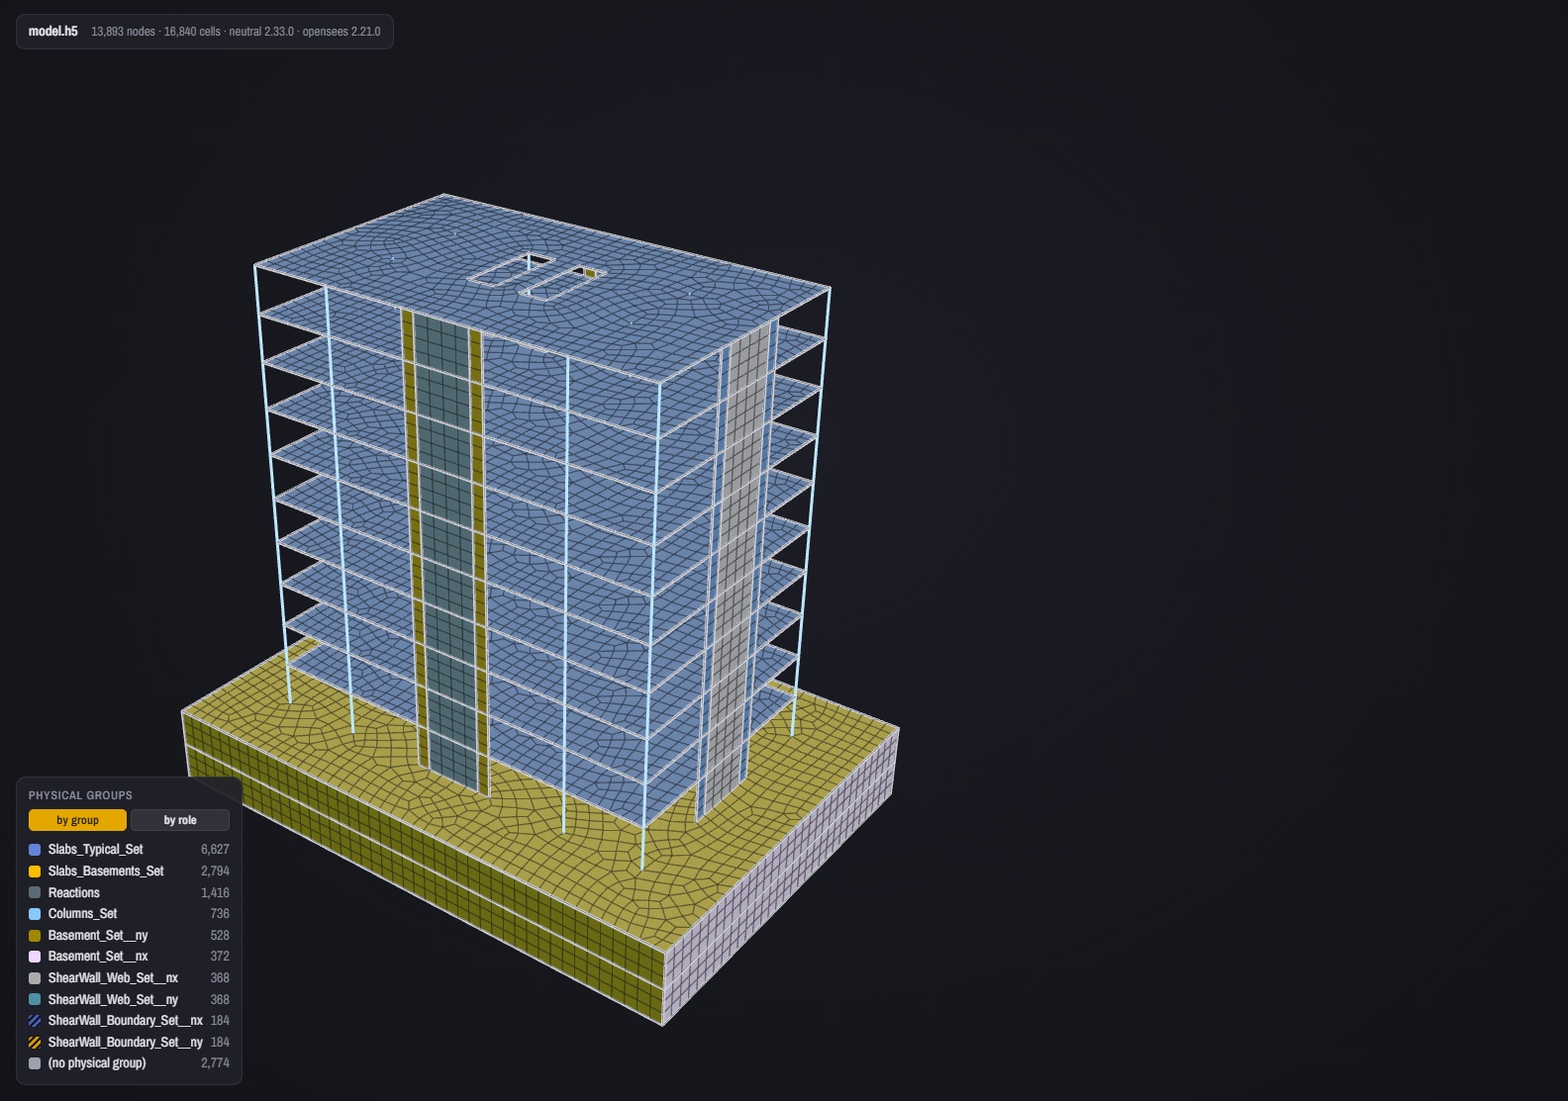
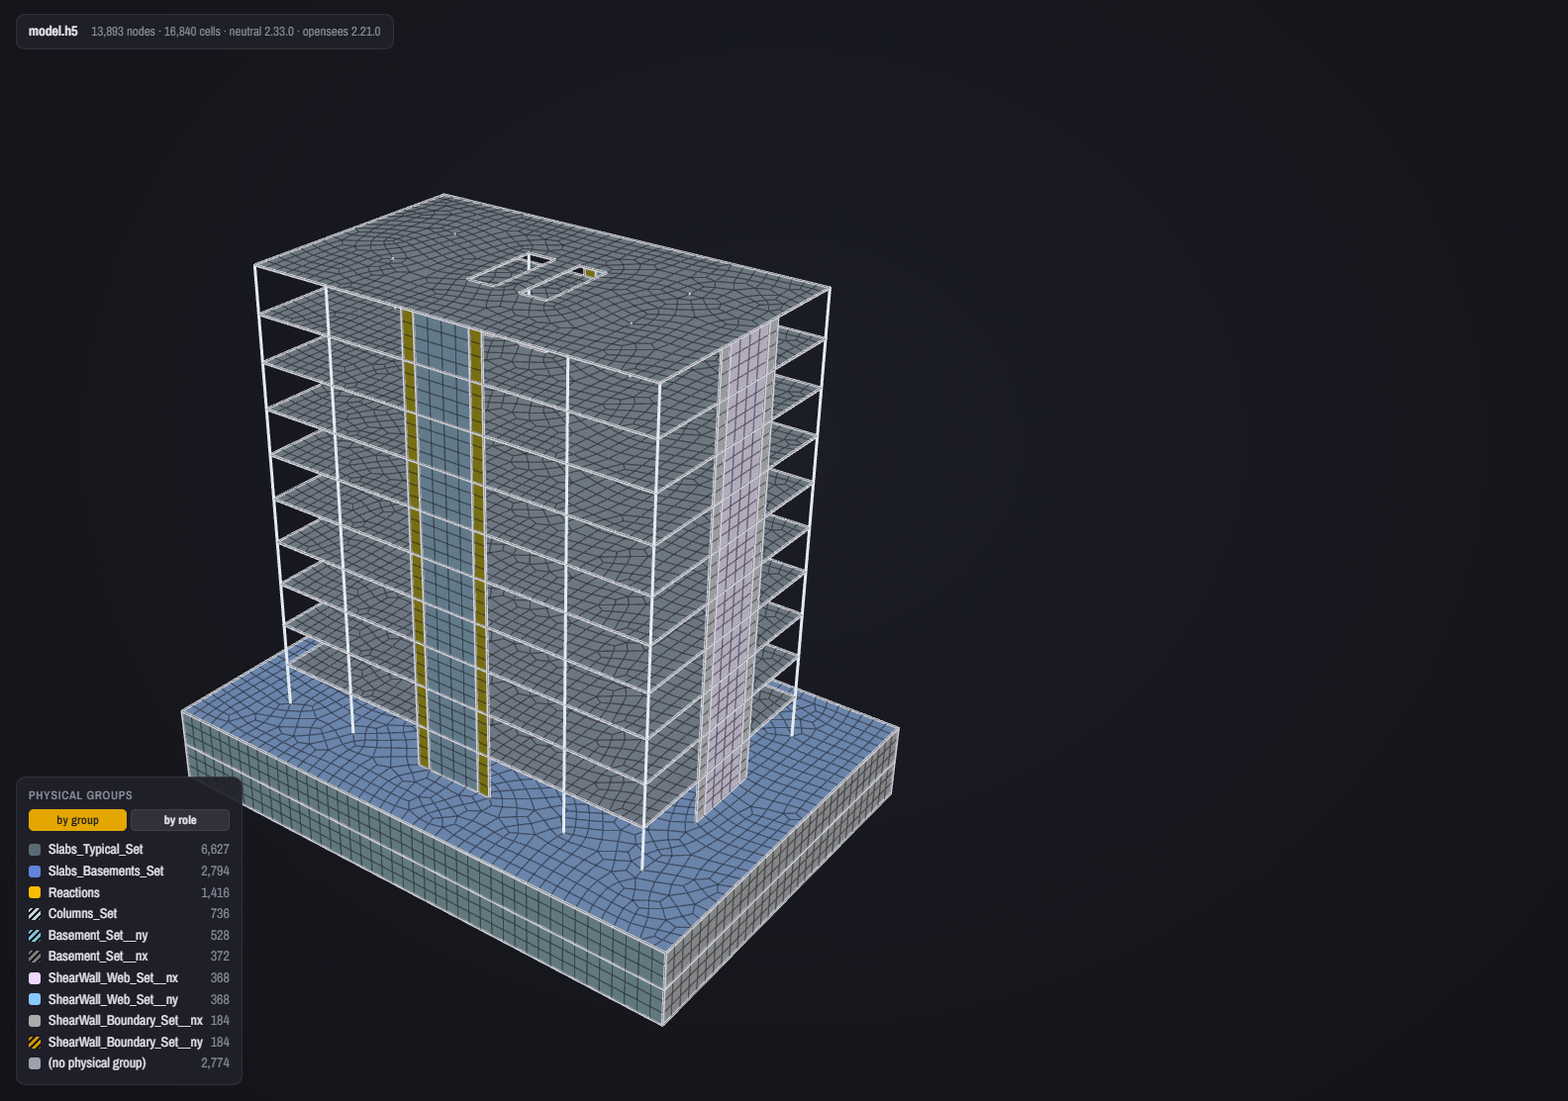
feat(apeGmshViewer): colour the group-adjacency graph so neighbours in the view contrast (#1330 finding 5)
Two groups are adjacent when an element of each shares a node; the pairs
are computed at load (state/adjacency.ts) and kept in MeshInfo.adjacency.
assignSlots colours the graph greedily, largest degree first, each group
taking the slot that contrasts with every coloured neighbour (>= 0.05 OKLab
under protanopia and deuteranopia, with a lightness step or a hue gap, and
never the office orange beside the dark gold), unused slots first, then the
largest smallest distance. Deterministic. Tests on the fixture's adjacency
(arch touches both columns), a path, a 13-group star (second-ring cue) and
K6; San Ramon's 22 adjacent pairs all contrast.

Changed region(s): [[0.0928, 0.1833, 0.5878, 0.947], [0.0, 0.7637, 0.0309, 0.9164]]

diff --git a/apeGmshViewer/src/state/palette.ts b/apeGmshViewer/src/state/palette.ts
@@ -1,17 +1,21 @@
-// Group colours (R2 on #1283, revised on #1308 round 3): the office palette
-// (theme/tokens.ts, from apeGraphStyle v0.1.0), in its order, adapted to
-// the dark theme.
+// Group colours (R2 on #1283, revised on #1308 round 3 and by the
+// maintainer's ruling on #1330): the office palette (theme/tokens.ts, from
+// apeGraphStyle v0.1.0) adapted to the dark theme, with the slots assigned
+// so that groups that are neighbours in the view contrast.
 //
-// Legend entry i takes office colour i % 8. The first eight alternate in
-// lightness (every legend neighbour steps by at least 0.10 in OKLCH L) and
-// never rely on a red/green difference alone (test/tokens.test.ts simulates
-// protanopia and checks every pair). Past eight groups the hue repeats one
-// lightness step away and the legend chip carries a stripe: the second cue,
-// as apeGraphStyle's `redundant_cycle` adds a line style. Past sixteen the
-// cycle repeats and the chip takes a second stripe; the maintainer's models
-// have eleven groups.
+// The sixteen slots are the eight office colours (ring 0) and the same
+// hues one lightness step away (ring 1, a striped legend chip as the second
+// cue). `assignSlots` colours the group-adjacency graph greedily: the group
+// with most neighbours first (ties by legend order), each taking the slot
+// that maximises the smallest colour-vision-deficiency-simulated OKLab
+// distance (protanopia and deuteranopia) to its already-coloured
+// neighbours, never a slot in the same hue family as a neighbour when
+// another is free, and never office orange beside dark gold (12 degrees
+// apart, one hue to a protanope). A group with no coloured neighbour takes
+// the lowest free slot. The assignment is a pure function of the
+// adjacency, so the same file gives the same colours.
 
-import { DARK, DARK_MAIN, DARK_MAIN_RING2, hexToRgb, type RGB } from "../theme/tokens.ts";
+import { DARK, DARK_MAIN, DARK_MAIN_RING2, hexToRgb, oklabDistance, simulateCvd, srgbToOklch, type RGB } from "../theme/tokens.ts";
 
 /** Elements in no physical group, and OpenSees-only elements. */
 export const NO_GROUP: RGB = hexToRgb(DARK.noGroup);
@@ -19,18 +23,80 @@ export const OPS_ONLY: RGB = hexToRgb(DARK.opsOnly);
 
 /** The rings of the group palette: the office colours, then the same hues one lightness step away. */
 export const RINGS: readonly (readonly RGB[])[] = [DARK_MAIN.map(hexToRgb), DARK_MAIN_RING2.map(hexToRgb)];
-
 /** Office colours per ring. */
 export const RING_SIZE = DARK_MAIN.length;
+/** Slots: ring 0 then ring 1. */
+export const SLOTS: readonly RGB[] = RINGS.flat();
+/** Office indices that may never colour adjacent groups, the office orange (1) beside the dark gold (4). */
+export const NEVER_ADJACENT: readonly [number, number][] = [[1, 4]];
+/** What two adjacent groups must keep: this much CVD-simulated OKLab distance, and a lightness step or a hue gap. */
+export const ADJACENT_MIN_DISTANCE = 0.05;
+export const ADJACENT_MIN_DL = 0.1;
 
-/** The colour of legend entry `i`, and its ring (0: the office colour; 1+: a repeat, with a stripe cue). */
-export function paletteEntry(i: number): { color: RGB; ring: number } {
-  if (!Number.isInteger(i) || i < 0) throw new RangeError(`paletteEntry: ${i}`);
-  const ring = Math.floor(i / RING_SIZE);
-  return { color: RINGS[Math.min(ring, RINGS.length - 1)]![i % RING_SIZE]!, ring };
+/** The colour and ring of slot `s`. */
+export function slotColour(s: number): { color: RGB; ring: number } {
+  if (!Number.isInteger(s) || s < 0 || s >= SLOTS.length) throw new RangeError(`slotColour: ${s}`);
+  return { color: SLOTS[s]!, ring: Math.floor(s / RING_SIZE) };
 }
 
-/** The colours of `n` legend entries, in legend order. */
-export function paletteFor(n: number): RGB[] {
-  return Array.from({ length: n }, (_, i) => paletteEntry(i).color);
+/** Office hue family of a slot. */
+export const hueOf = (s: number): number => s % RING_SIZE;
+
+/** The smaller of the protanopia- and deuteranopia-simulated OKLab distances between two slots. */
+export function cvdDistance(a: number, b: number): number {
+  return Math.min(
+    ...(["protanopia", "deuteranopia"] as const).map((k) => oklabDistance(simulateCvd(k, SLOTS[a]!), simulateCvd(k, SLOTS[b]!))),
+  );
+}
+
+const DIST: number[][] = SLOTS.map((_, a) => SLOTS.map((__, b) => cvdDistance(a, b)));
+const LIGHT: number[] = SLOTS.map((c) => srgbToOklch(c).L);
+
+const forbidden = (a: number, b: number): boolean =>
+  NEVER_ADJACENT.some(([x, y]) => (hueOf(a) === x && hueOf(b) === y) || (hueOf(a) === y && hueOf(b) === x));
+
+/** Whether two slots may colour adjacent groups: far enough as a protanope and a deuteranope see them, by lightness or by a hue gap, and not the office orange beside the dark gold. */
+export function slotsContrast(a: number, b: number): boolean {
+  if (forbidden(a, b)) return false;
+  return DIST[a]![b]! >= ADJACENT_MIN_DISTANCE && (Math.abs(LIGHT[a]! - LIGHT[b]!) >= ADJACENT_MIN_DL - 0.012 || hueOf(a) !== hueOf(b));
+}
+
+/**
+ * Assign a slot to each of `n` groups so that adjacent groups contrast.
+ * `adjacency` lists pairs of group indices. Returns the slot of each group.
+ *
+ * Greedy, largest degree first (ties by index): among the slots that
+ * contrast with every already-coloured neighbour, an unused slot first (so
+ * the legend stays varied), then the largest smallest CVD distance to those
+ * neighbours, then the lowest slot. When no slot contrasts with them all
+ * (more neighbours than the palette can separate), the one with the largest
+ * smallest distance is taken anyway; the stripe cue past the office eight
+ * still tells its ring.
+ */
+export function assignSlots(n: number, adjacency: readonly (readonly [number, number])[]): number[] {
+  const neighbours: Set<number>[] = Array.from({ length: n }, () => new Set());
+  for (const [a, b] of adjacency) {
+    if (a === b || a < 0 || b < 0 || a >= n || b >= n) throw new RangeError(`assignSlots: pair ${a},${b} of ${n} groups`);
+    neighbours[a]!.add(b);
+    neighbours[b]!.add(a);
+  }
+  const order = [...Array(n).keys()].sort((x, y) => neighbours[y]!.size - neighbours[x]!.size || x - y);
+  const slot = new Array<number>(n).fill(-1);
+  const used = new Set<number>();
+  for (const g of order) {
+    const coloured = [...neighbours[g]!].filter((h) => slot[h]! >= 0).map((h) => slot[h]!);
+    const minDist = (s: number) => (coloured.length ? Math.min(...coloured.map((c) => DIST[s]![c]!)) : 1);
+    const key = (s: number): [number, number, number, number] => [
+      coloured.every((c) => slotsContrast(s, c)) ? 1 : 0,
+      used.has(s) ? 0 : 1,
+      minDist(s),
+      -s,
+    ];
+    const better = (p: number[], q: number[]) => p.findIndex((v, i) => v !== q[i]) >= 0 && p[p.findIndex((v, i) => v !== q[i])]! > q[p.findIndex((v, i) => v !== q[i])]!;
+    let best = 0;
+    for (let s = 1; s < SLOTS.length; s++) if (better(key(s), key(best))) best = s;
+    slot[g] = best;
+    used.add(best);
+  }
+  return slot;
 }

diff --git a/apeGmshViewer/test/tokens.test.ts b/apeGmshViewer/test/tokens.test.ts
@@ -10,7 +10,9 @@ import { readdirSync, readFileSync, statSync } from "node:fs";
 import { join } from "node:path";
 import { test } from "node:test";
 import { fileURLToPath } from "node:url";
-import { NO_GROUP, OPS_ONLY, paletteEntry, paletteFor, RING_SIZE } from "../src/state/palette.ts";
+import { groupAdjacency } from "../src/state/adjacency.ts";
+import { assignSlots, cvdDistance, hueOf, NEVER_ADJACENT, NO_GROUP, OPS_ONLY, RING_SIZE, slotColour, SLOTS, slotsContrast } from "../src/state/palette.ts";
+import { colourGroups } from "../src/mesh/build.ts";
 import { roleColouring, UNASSIGNED_ROW } from "../src/state/roles.ts";
 import {
   contrastRatio, DARK, DARK_L1, DARK_L2, DARK_MAIN, DARK_MAIN_RING2, DARK_ROLE, FONT_FILES, hexToRgb, oklabDistance, OFFICE, OFFICE_MAIN, protanopia, relight, rgbToHex,
@@ -136,17 +138,68 @@ test("the roles take the office colours; no two roles are told apart by red/gree
 
 // ---- the palette the legend uses ---------------------------------------------
 
-test("legend entries cycle the office order; the ninth repeats the first hue one step away with a stripe cue", () => {
-  const p = paletteFor(11);
-  assert.equal(p.length, 11);
-  assert.deepEqual(p[0], hexToRgb(DARK_MAIN[0]!));
-  assert.deepEqual(p[8], hexToRgb(DARK_MAIN_RING2[0]!));
-  assert.equal(paletteEntry(0).ring, 0);
-  assert.equal(paletteEntry(8).ring, 1);
-  assert.equal(paletteEntry(16).ring, 2);
-  assert.throws(() => paletteEntry(-1), RangeError);
+test("the sixteen slots are the two rings in office order; the second ring carries the stripe cue", () => {
+  assert.equal(SLOTS.length, 2 * RING_SIZE);
+  assert.deepEqual(slotColour(0).color, hexToRgb(DARK_MAIN[0]!));
+  assert.deepEqual(slotColour(8), { color: hexToRgb(DARK_MAIN_RING2[0]!), ring: 1 });
+  assert.equal(hueOf(13), 5);
+  assert.throws(() => slotColour(16), RangeError);
   assert.deepEqual(NO_GROUP, hexToRgb(DARK.noGroup));
   assert.deepEqual(OPS_ONLY, hexToRgb(DARK.opsOnly));
+});
+
+/** The maintainer's rule for two adjacent groups, spelled out here beside the palette's own `slotsContrast`. */
+function contrasts(a: number, b: number): boolean {
+  const dL = Math.abs(srgbToOklch(SLOTS[a]!).L - srgbToOklch(SLOTS[b]!).L);
+  const hueGap = hueOf(a) !== hueOf(b) && !NEVER_ADJACENT.some(([x, y]) => (hueOf(a) === x && hueOf(b) === y) || (hueOf(a) === y && hueOf(b) === x));
+  const ok = cvdDistance(a, b) >= SAFE && (dL >= STEP - 0.012 || hueGap);
+  assert.equal(slotsContrast(a, b), ok, `slotsContrast(${a}, ${b}) agrees with the spelled-out rule`);
+  return ok;
+}
+
+test("adjacent groups contrast: the fixture's arch touches both columns, which do not touch each other", async () => {
+  const model = await openModel(fileURLToPath(new URL("../fixtures/shoebuckle.h5", import.meta.url)));
+  const { byElement, order } = colourGroups(model);
+  const adj = groupAdjacency(model, byElement, order.length);
+  const name = (i: number) => order[i]!;
+  assert.deepEqual(adj.map(([a, b]) => [name(a), name(b)].sort()), [["Arch", "LeftColumn"], ["Arch", "RightColumn"]]);
+  const s = reduce(initialState, { type: "fileLoaded", artifact: "model", load: loadModel(model, new BlobStore()) });
+  const legend = s.mesh!.legend;
+  assert.deepEqual(s.mesh!.adjacency, [[0, 1], [0, 2]], "legend rows: Arch (0) touches LeftColumn (1) and RightColumn (2)");
+  for (const [a, b] of s.mesh!.adjacency) assert.ok(contrasts(legend[a]!.slot!, legend[b]!.slot!), `${legend[a]!.name} vs ${legend[b]!.name}`);
+  // The legend shows the assigned slots' colours.
+  for (const e of legend) if (e.slot !== null) assert.deepEqual(e.color, slotColour(e.slot).color);
+  // Deterministic: the same file gives the same colours.
+  const again = loadModel(model, new BlobStore()).mesh.legend.map((e) => e.slot);
+  assert.deepEqual(legend.map((e) => e.slot), again);
+});
+
+test("assignSlots: a chain and a dense graph keep every adjacent pair apart, with the office rule and the stripe cue past eight", () => {
+  // A path of 6 groups: each neighbour pair contrasts; the assignment is a pure function of the adjacency.
+  const path: [number, number][] = [[0, 1], [1, 2], [2, 3], [3, 4], [4, 5]];
+  const slots = assignSlots(6, path);
+  for (const [a, b] of path) assert.ok(contrasts(slots[a]!, slots[b]!), `${a}-${b}: slots ${slots[a]} ${slots[b]}`);
+  assert.deepEqual(assignSlots(6, path), slots, "deterministic");
+  assert.deepEqual(assignSlots(6, [...path].reverse()), slots, "and independent of the pair order");
+  // A hub with 12 neighbours: more than the eight office colours, so the second ring (stripe cue) is used,
+  // every hub-neighbour pair contrasts, and orange never sits beside dark gold.
+  const n = 13;
+  const star: [number, number][] = Array.from({ length: n - 1 }, (_, i) => [0, i + 1]);
+  const s2 = assignSlots(n, star);
+  assert.equal(new Set(s2).size, n, "all distinct");
+  assert.ok(s2.some((x) => slotColour(x).ring === 1), "a second-ring slot is in use");
+  for (const [a, b] of star) assert.ok(contrasts(s2[a]!, s2[b]!), `${a}-${b}`);
+  // Orange and dark gold: never adjacent, in a complete graph of 6 either.
+  const k6: [number, number][] = [];
+  for (let i = 0; i < 6; i++) for (let j = i + 1; j < 6; j++) k6.push([i, j]);
+  const s3 = assignSlots(6, k6);
+  for (const [a, b] of k6) {
+    assert.ok(!NEVER_ADJACENT.some(([x, y]) => (hueOf(s3[a]!) === x && hueOf(s3[b]!) === y) || (hueOf(s3[a]!) === y && hueOf(s3[b]!) === x)), `${a}-${b}`);
+    assert.ok(cvdDistance(s3[a]!, s3[b]!) >= SAFE);
+  }
+  // Groups with no neighbour take the lowest free slots, in order.
+  assert.deepEqual(assignSlots(3, []), [0, 1, 2]);
+  assert.throws(() => assignSlots(2, [[0, 2]]), RangeError);
 });
 
 // ---- colour by role: from the file only ---------------------------------------

diff --git a/apeGmshViewer/src/state/load.ts b/apeGmshViewer/src/state/load.ts
@@ -9,7 +9,8 @@ import type { Group, ModelFile, OpsFamily, Param } from "../model/types.ts";
 import { sourceOf, type ProvenanceZone } from "../reader/provenance.ts";
 import type { BlobStore } from "./blobs.ts";
 import { cellPath, elementLinks, objectDecl, objectPaths, opsRowPath, type Lookup } from "./decls.ts";
-import { NO_GROUP, OPS_ONLY, paletteEntry } from "./palette.ts";
+import { groupAdjacency } from "./adjacency.ts";
+import { assignSlots, NO_GROUP, OPS_ONLY, slotColour } from "./palette.ts";
 import { emptyRecord } from "./reduce.ts";
 import type { ArtifactInfo, BlockInfo, Decl, DeclPath, ElementFacts, LegendEntry, MeshInfo, ModelLoad, ZoneStatus } from "./types.ts";
 
@@ -174,20 +175,33 @@ function pathOfRef(model: ModelFile, r: ElementRef): DeclPath {
 
 /** The render blobs, the per-primitive element and legend indices, and the coloured legend. */
 export function meshInfoOf(model: ModelFile, mesh: MeshBuffers, blobs: BlobStore): MeshInfo {
-  // Legend: build.ts's rows (most elements first), with generated colours (R2).
+  // Legend: build.ts's rows (most elements first). Groups that are neighbours
+  // in the view (an element of each shares a node) get contrasting slots of
+  // the office palette (R2, the #1330 ruling); the adjacency is kept in the
+  // state so the assignment can be checked and never lives in a view.
+  const { byElement, order } = colourGroups(model);
   const groups = mesh.legend.filter((e) => e.name !== NO_GROUP_ROW && e.name !== OPS_ONLY_ROW);
+  const rowOf = new Map(groups.map((e, i) => [e.name, i]));
+  const adjacency = groupAdjacency(model, byElement, order.length)
+    .map(([a, b]): [number, number] | null => {
+      const ra = rowOf.get(order[a]!), rb = rowOf.get(order[b]!);
+      return ra === undefined || rb === undefined ? null : ra < rb ? [ra, rb] : [rb, ra];
+    })
+    .filter((p): p is [number, number] => p !== null)
+    .sort((p, q) => p[0] - q[0] || p[1] - q[1]);
+  const slots = assignSlots(groups.length, adjacency);
   const legend: LegendEntry[] = mesh.legend.map((e) => {
-    const gi = groups.indexOf(e);
-    if (gi >= 0) {
-      const { color, ring } = paletteEntry(gi);
-      return { decl: `mesh/physical_group/${e.name}`, name: e.name, color, elements: e.elements, cue: ring === 0 ? null : ring === 1 ? "stripe" : "stripe2" };
+    const gi = rowOf.get(e.name);
+    if (gi !== undefined) {
+      const slot = slots[gi]!;
+      const { color, ring } = slotColour(slot);
+      return { decl: `mesh/physical_group/${e.name}`, name: e.name, color, elements: e.elements, cue: ring === 0 ? null : "stripe", slot };
     }
-    return { decl: null, name: e.name, color: e.name === NO_GROUP_ROW ? NO_GROUP : OPS_ONLY, elements: e.elements, cue: null };
+    return { decl: null, name: e.name, color: e.name === NO_GROUP_ROW ? NO_GROUP : OPS_ONLY, elements: e.elements, cue: null, slot: null };
   });
   const legendIndex = new Map(legend.map((e, i) => [e.name, i]));
   const noGroupRow = legendIndex.get(NO_GROUP_ROW) ?? -1;
   const opsOnlyRow = legendIndex.get(OPS_ONLY_ROW) ?? -1;
-  const { byElement, order } = colourGroups(model);
 
   const elements: DeclPath[] = [];
   const elementIndex = new Map<string, number>();
@@ -226,6 +240,7 @@ export function meshInfoOf(model: ModelFile, mesh: MeshBuffers, blobs: BlobStore
     triGroup: blobs.put("model/mesh/triGroup", tris.group),
     elements,
     legend,
+    adjacency,
     center: mesh.center,
     radius: mesh.radius,
     counts: mesh.counts,

diff --git a/apeGmshViewer/src/state/adjacency.ts b/apeGmshViewer/src/state/adjacency.ts
@@ -1,0 +1,35 @@
+// Which colour groups are neighbours in the view (#1330, maintainer ruling
+// on R2): two groups are adjacent when an element of one and an element of
+// the other share a node. Computed once at load from the file's mesh, kept
+// in the state as plain pairs (MeshInfo.adjacency), never held by a view.
+
+import type { ModelFile } from "../model/types.ts";
+
+/**
+ * Adjacent pairs of colour groups, as indices into `order` (the colour
+ * group of each cell is `byElement`, from mesh/build.ts `colourGroups`).
+ * Each pair once, `a < b`, sorted.
+ */
+export function groupAdjacency(model: ModelFile, byElement: ReadonlyMap<number, number>, groupCount: number): [number, number][] {
+  // The groups touching each node, as a bit set per node (groups beyond 32 spill to a Set).
+  const touching = new Map<number, Set<number>>();
+  for (const b of model.blocks) {
+    for (let row = 0; row < b.ids.length; row++) {
+      const gi = byElement.get(b.ids[row]!);
+      if (gi === undefined) continue;
+      for (let k = 0; k < b.npe; k++) {
+        const node = b.connectivity[row * b.npe + k]!;
+        const set = touching.get(node);
+        if (set) set.add(gi);
+        else touching.set(node, new Set([gi]));
+      }
+    }
+  }
+  const pairs = new Set<number>();
+  for (const set of touching.values()) {
+    if (set.size < 2) continue;
+    const list = [...set].sort((x, y) => x - y);
+    for (let i = 0; i < list.length; i++) for (let j = i + 1; j < list.length; j++) pairs.add(list[i]! * groupCount + list[j]!);
+  }
+  return [...pairs].sort((x, y) => x - y).map((p) => [Math.floor(p / groupCount), p % groupCount]);
+}

diff --git a/apeGmshViewer/test/visible.test.ts b/apeGmshViewer/test/visible.test.ts
@@ -8,9 +8,9 @@ import { edgeMask, sameDrawn, visibleMaps } from "../src/renderer/visible.ts";
 import type { LegendEntry } from "../src/state/types.ts";
 
 const legend: LegendEntry[] = [
-  { decl: "mesh/physical_group/LeftColumn", name: "LeftColumn", color: [1, 0, 0], elements: 2, cue: null },
-  { decl: "mesh/physical_group/RightColumn", name: "RightColumn", color: [0, 1, 0], elements: 2, cue: null },
-  { decl: null, name: "(no physical group)", color: [0.5, 0.5, 0.5], elements: 1, cue: null },
+  { decl: "mesh/physical_group/LeftColumn", name: "LeftColumn", color: [1, 0, 0], elements: 2, cue: null, slot: null },
+  { decl: "mesh/physical_group/RightColumn", name: "RightColumn", color: [0, 1, 0], elements: 2, cue: null, slot: null },
+  { decl: null, name: "(no physical group)", color: [0.5, 0.5, 0.5], elements: 1, cue: null, slot: null },
 ];
 // segments 0,1 are LeftColumn; 2,3 RightColumn; 4 in no group
 const lineGroup = Int32Array.from([0, 0, 1, 1, 2]);

diff --git a/apeGmshViewer/src/state/types.ts b/apeGmshViewer/src/state/types.ts
@@ -139,6 +139,8 @@ export interface LegendEntry {
   elements: number;
   /** a second cue beside the colour (a repeated hue past the eight office colours): stripes on the chip */
   cue: "stripe" | "stripe2" | null;
+  /** the palette slot the group was assigned (state/palette.ts); null for the synthetic rows */
+  slot: number | null;
 }
 
 /** What colours the model: its physical groups, or the structural role each element's file records. */
@@ -159,6 +161,8 @@ export interface MeshInfo {
   /** the decl path of every drawn element, in first-drawn order */
   elements: DeclPath[];
   legend: LegendEntry[];
+  /** legend rows whose elements share a node (each pair once, a < b): what the slot assignment keeps apart */
+  adjacency: [number, number][];
   center: readonly [number, number, number];
   radius: number;
   counts: { lineCells: number; faceCells: number; solidCells: number; opsOnly: number; points: number };

diff --git a/apeGmshViewer/src/state/roles.ts b/apeGmshViewer/src/state/roles.ts
@@ -62,9 +62,10 @@ export function roleColouring(s: State): { byElement: Int32Array; legend: Legend
     color: hexToRgb(DARK_ROLE[r]),
     elements: roles.filter((x) => x === r).length,
     cue: null,
+    slot: null,
   }));
   const unassigned = roles.filter((x) => x === null).length;
-  if (unassigned) legend.push({ decl: null, name: UNASSIGNED_ROW, color: UNASSIGNED_COLOUR, elements: unassigned, cue: null });
+  if (unassigned) legend.push({ decl: null, name: UNASSIGNED_ROW, color: UNASSIGNED_COLOUR, elements: unassigned, cue: null, slot: null });
   const index = new Map<string, number>(legend.map((e, i) => [e.name, i]));
   const byElement = Int32Array.from(roles, (r) => index.get(r ?? UNASSIGNED_ROW)!);
   return { byElement, legend, fileHasRoles: present.size > 0 };

diff --git a/changelog.d/v2e-r3-office-style.md b/changelog.d/v2e-r3-office-style.md
@@ -3,12 +3,16 @@
 One theme-token module, `apeGmshViewer/src/theme/tokens.ts` (citing
 apeGraphStyle `__init__.py` v0.1.0, 2026-10-03), is the only source of
 colour and type in the app: a test greps the rest of `src/` for colour
-literals. Group colours (R2, revised) follow the office `main_colors` order,
-adapted to the dark theme in OKLCH with alternating lightness: legend
-neighbours step by at least 0.10 L, no pair of the sixteen colours is told
-apart by a red/green difference alone under a Machado 2009 protanopia
-simulation, and past eight groups the hue repeats one lightness step away
-with a striped legend chip as the second cue. A colour-by-role mode draws
+literals. Group colours (R2, revised) are the office `main_colors`, adapted to the
+dark theme in OKLCH: sixteen slots (the eight colours and the same hues one
+lightness step away, the latter with a striped legend chip as the second
+cue), no pair of which is told apart by a red/green difference alone under
+Machado 2009 protanopia and deuteranopia simulations. Groups that are
+neighbours in the view (an element of each shares a node; the adjacency is
+computed at load and kept in the state) are assigned slots greedily so that
+every adjacent pair is apart under both deficiencies by a lightness step or a
+hue gap, and the office orange never sits beside the dark gold; the same
+file always gets the same colours. A colour-by-role mode draws
 column, wall, beam, concrete and void in the office colours from a `role`
 the file records and from nothing else; a file without one (every file
 today) is said so in the legend and drawn as unassigned. Archivo Narrow
